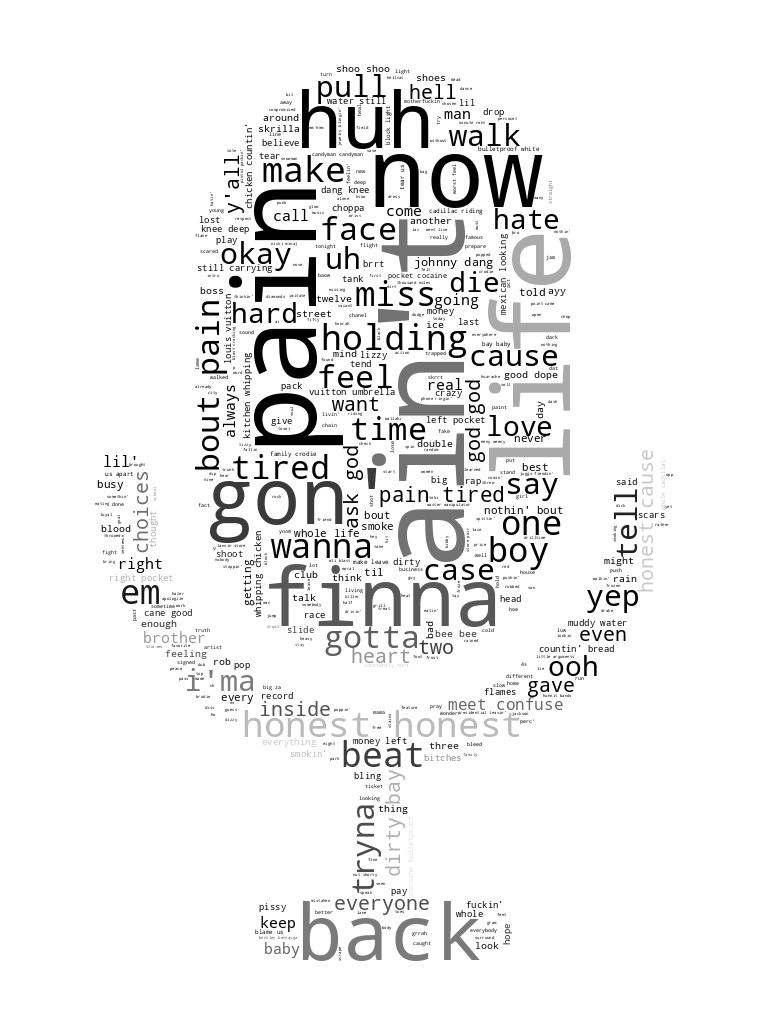
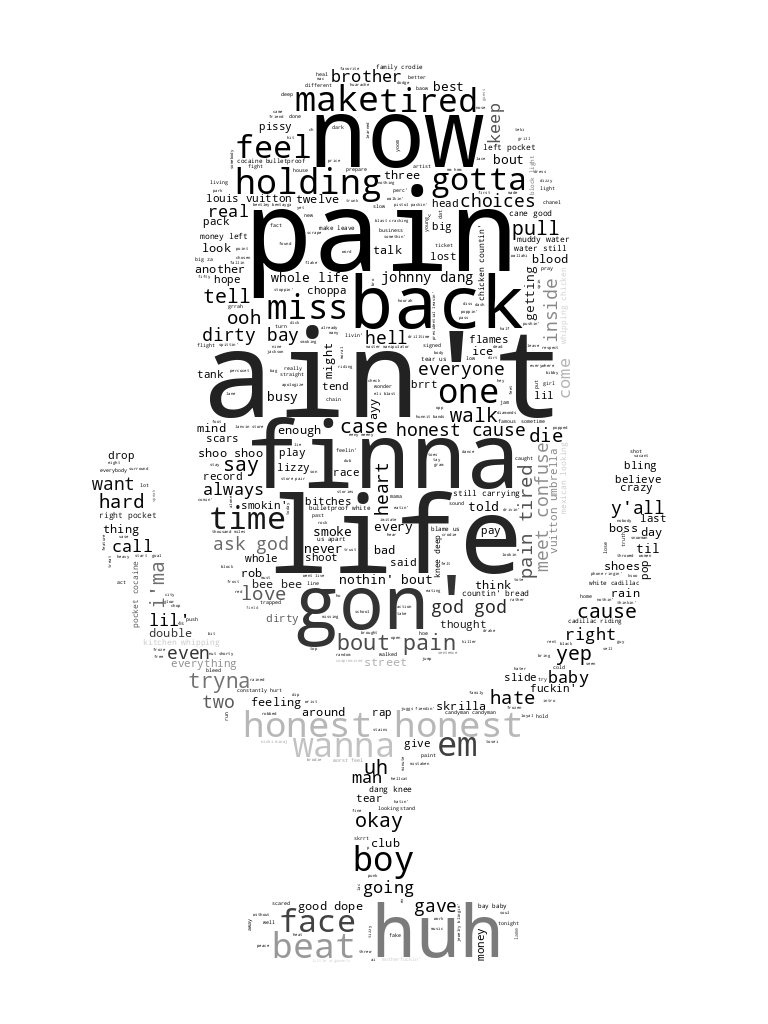
make red fade, header less repetitive

Changed region(s): [[0.125, 0.0625, 0.875, 0.9375]]

diff --git a/rawbarsonly/template.html b/rawbarsonly/template.html
@@ -18,7 +18,7 @@
 
     <div class="navbar">
         <a href="{% if word is defined %}../{% endif %}index.html"><h1>Raw Bars Only</h1></a>
-        <a href="{% if word is defined %}../{% endif %}index.html">Home</a>
+        <!-- <a href="{% if word is defined %}../{% endif %}index.html">Home</a> -->
     </div>
 
     <div class="content">
@@ -127,7 +127,9 @@
                     .text(function(d) { return d.text; })
                     .attr("cursor", "pointer")
                     .on("mouseover", function(d) {
-                        d3.select(this).style("fill", "red");
+                        d3.select(this).transition().duration(0).style("fill", "red");
+                        // slowly change back to original color
+                        d3.select(this).transition().duration(5000).style("fill", "#222");
                     })
                     .on("click", function(d) {
                         window.location.href = "words/" + d.text.replace(' ', '_') + '.html';

diff --git a/rawbarsonly/frontend/index.html b/rawbarsonly/frontend/index.html
@@ -141,7 +141,9 @@ But I ain't beat that case, bitch, I did the race (Skrrt, skrrt)</a></pre></b></
                     .text(function(d) { return d.text; })
                     .attr("cursor", "pointer")
                     .on("mouseover", function(d) {
-                        d3.select(this).style("fill", "red");
+                        d3.select(this).transition().duration(0).style("fill", "red");
+                        // slowly change back to original color
+                        d3.select(this).transition().duration(5000).style("fill", "#222");
                     })
                     .on("click", function(d) {
                         window.location.href = "words/" + d.text.replace(' ', '_') + '.html';
